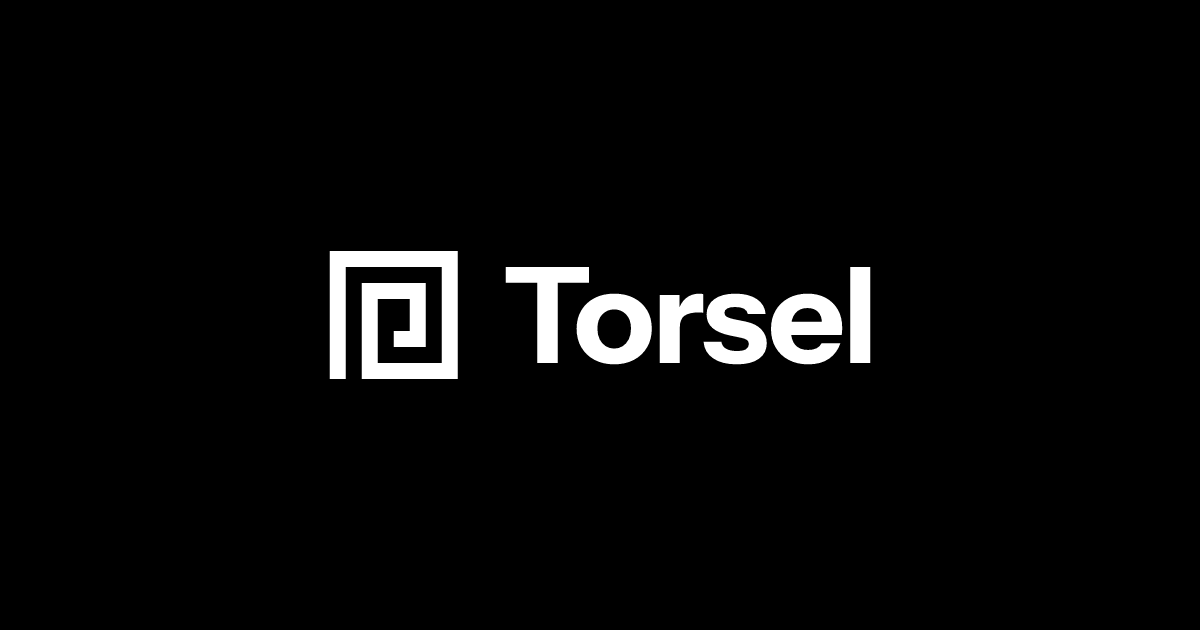
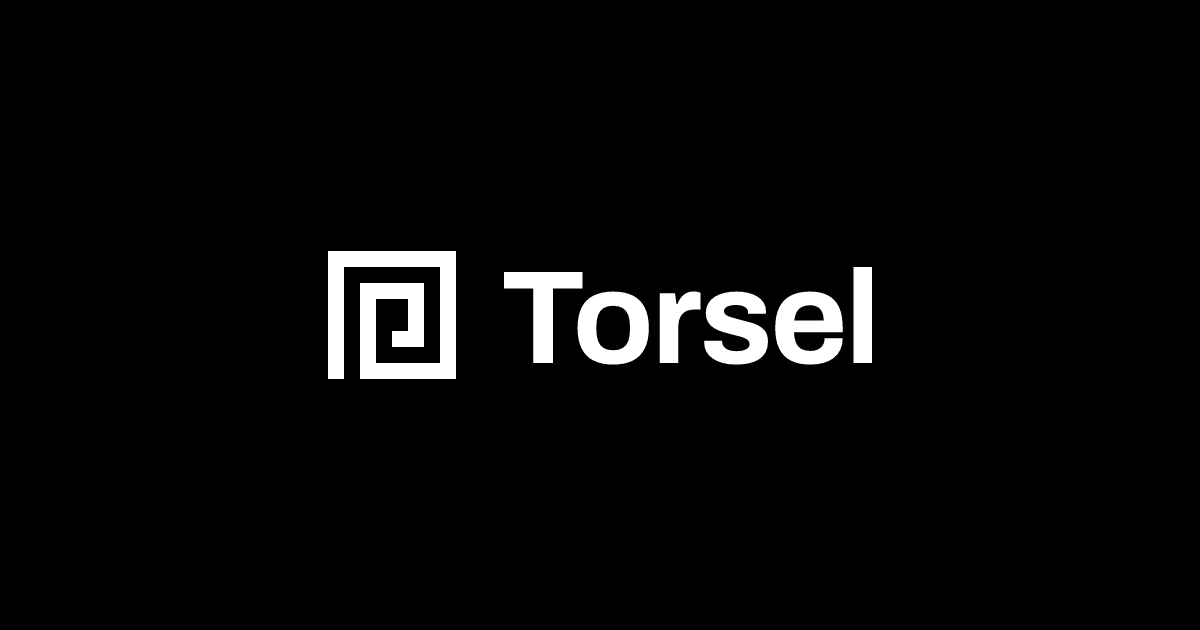
feat(app): draw the wordmark in archivo until the type is confirmed

diff --git a/src/lib/ui/Logo.svelte b/src/lib/ui/Logo.svelte
@@ -4,7 +4,7 @@
 </script>
 
 <svg
-	viewBox="0 0 {wordmark ? 67.55 : 16} 16"
+	viewBox="0 0 {wordmark ? 68.01 : 16} 16"
 	role="img"
 	aria-label="Torsel"
 	fill="currentColor"
@@ -15,7 +15,7 @@
 	{#if wordmark}
 		<path
 			transform="translate(22)"
-			d="M3.92 14V3.97H0V2H10.4V3.97H6.48V14ZM13.55 14.17Q12.15 14.17 11.09 13.61Q10.03 13.05 9.44 12.04Q8.85 11.03 8.85 9.72Q8.85 8.4 9.44 7.42Q10.03 6.43 11.09 5.88Q12.15 5.33 13.55 5.33Q14.97 5.33 16.02 5.88Q17.08 6.43 17.67 7.42Q18.25 8.4 18.25 9.72Q18.25 11.03 17.66 12.04Q17.07 13.05 16.01 13.61Q14.95 14.17 13.55 14.17ZM13.55 12.2Q14.13 12.2 14.61 11.9Q15.08 11.6 15.37 11.04Q15.65 10.48 15.65 9.7Q15.65 8.55 15.04 7.93Q14.43 7.3 13.55 7.3Q12.67 7.3 12.06 7.93Q11.45 8.57 11.45 9.7Q11.45 10.48 11.73 11.04Q12.02 11.6 12.49 11.9Q12.97 12.2 13.55 12.2ZM19.25 14V5.5H21.7V7.5H21.75V14ZM21.75 9.57 21.53 7.55Q21.83 6.47 22.52 5.9Q23.2 5.33 24.22 5.33Q24.53 5.33 24.68 5.4V7.73Q24.6 7.7 24.45 7.69Q24.3 7.68 24.08 7.68Q22.88 7.68 22.32 8.11Q21.75 8.53 21.75 9.57ZM28.88 14.17Q27.02 14.17 25.92 13.42Q24.82 12.67 24.72 11.35H26.95Q27.03 11.92 27.52 12.21Q28.02 12.5 28.88 12.5Q29.67 12.5 30.02 12.28Q30.38 12.05 30.38 11.63Q30.38 11.32 30.17 11.14Q29.97 10.97 29.42 10.85L28.05 10.57Q26.53 10.25 25.82 9.61Q25.1 8.97 25.1 7.95Q25.1 6.72 26.05 6.03Q27 5.33 28.7 5.33Q30.38 5.33 31.38 6.01Q32.38 6.68 32.48 7.88H30.25Q30.18 7.45 29.78 7.22Q29.38 7 28.65 7Q27.98 7 27.66 7.19Q27.33 7.38 27.33 7.73Q27.33 8.03 27.6 8.21Q27.87 8.38 28.48 8.52L30.02 8.83Q31.3 9.1 31.96 9.82Q32.62 10.55 32.62 11.53Q32.62 12.78 31.64 13.47Q30.67 14.17 28.88 14.17ZM37.82 14.17Q36.4 14.17 35.35 13.61Q34.3 13.05 33.72 12.05Q33.15 11.05 33.15 9.75Q33.15 8.43 33.72 7.44Q34.3 6.45 35.33 5.89Q36.37 5.33 37.73 5.33Q39.05 5.33 40.02 5.87Q40.98 6.4 41.52 7.35Q42.05 8.3 42.05 9.58Q42.05 9.85 42.03 10.07Q42.02 10.3 41.98 10.5H34.62V8.85H39.97L39.53 9.15Q39.53 8.12 39.04 7.62Q38.55 7.13 37.7 7.13Q36.72 7.13 36.17 7.8Q35.63 8.47 35.63 9.8Q35.63 11.1 36.17 11.73Q36.72 12.37 37.8 12.37Q38.4 12.37 38.83 12.17Q39.27 11.97 39.48 11.52H41.83Q41.42 12.75 40.41 13.46Q39.4 14.17 37.82 14.17ZM43.05 14V2H45.55V14Z"
+			d="M3.65 14V4.69H0V2.61H9.81V4.69H6.14V14ZM13.64 14.2Q12.22 14.2 11.22 13.71Q10.22 13.22 9.71 12.2Q9.2 11.18 9.2 9.63Q9.2 8.06 9.71 7.05Q10.22 6.05 11.22 5.56Q12.22 5.07 13.64 5.07Q15.1 5.07 16.09 5.56Q17.08 6.05 17.59 7.05Q18.11 8.06 18.11 9.63Q18.11 11.18 17.59 12.2Q17.08 13.22 16.09 13.71Q15.1 14.2 13.64 14.2ZM13.64 12.41Q14.41 12.41 14.86 12.12Q15.32 11.84 15.54 11.26Q15.75 10.68 15.75 9.83V9.44Q15.75 8.59 15.54 8.01Q15.32 7.43 14.86 7.14Q14.41 6.85 13.64 6.85Q12.9 6.85 12.44 7.14Q11.98 7.43 11.77 8.01Q11.55 8.59 11.55 9.44V9.83Q11.55 10.68 11.77 11.26Q11.98 11.84 12.44 12.12Q12.9 12.41 13.64 12.41ZM19.47 14V5.27H21.38L21.56 6.63H21.68Q21.84 6.2 22.11 5.84Q22.37 5.49 22.77 5.27Q23.17 5.05 23.7 5.05Q23.98 5.05 24.22 5.11Q24.45 5.17 24.56 5.22V7.31H23.85Q23.34 7.31 22.95 7.45Q22.56 7.59 22.29 7.89Q22.02 8.19 21.9 8.62Q21.78 9.05 21.78 9.63V14ZM28.98 14.2Q28.07 14.2 27.34 14Q26.61 13.8 26.09 13.44Q25.58 13.09 25.3 12.59Q25.03 12.09 25.03 11.46Q25.03 11.39 25.03 11.33Q25.03 11.26 25.05 11.23H27.27Q27.27 11.26 27.27 11.29Q27.27 11.33 27.27 11.36Q27.29 11.78 27.54 12.03Q27.78 12.29 28.19 12.41Q28.6 12.52 29.05 12.52Q29.44 12.52 29.82 12.45Q30.19 12.37 30.45 12.17Q30.71 11.98 30.71 11.66Q30.71 11.26 30.38 11.05Q30.06 10.83 29.54 10.7Q29.01 10.56 28.4 10.4Q27.83 10.27 27.27 10.09Q26.71 9.92 26.25 9.63Q25.79 9.35 25.51 8.9Q25.23 8.44 25.23 7.74Q25.23 7.06 25.53 6.56Q25.83 6.05 26.35 5.72Q26.87 5.39 27.58 5.23Q28.28 5.07 29.1 5.07Q29.86 5.07 30.52 5.23Q31.19 5.39 31.68 5.69Q32.18 6 32.46 6.46Q32.75 6.91 32.75 7.48Q32.75 7.59 32.75 7.69Q32.75 7.79 32.73 7.83H30.52V7.69Q30.52 7.39 30.34 7.19Q30.16 6.98 29.82 6.86Q29.48 6.75 29 6.75Q28.66 6.75 28.39 6.8Q28.12 6.85 27.92 6.95Q27.72 7.05 27.61 7.19Q27.5 7.33 27.5 7.53Q27.5 7.81 27.74 7.98Q27.98 8.16 28.38 8.27Q28.78 8.39 29.26 8.52Q29.86 8.69 30.51 8.85Q31.17 9 31.73 9.27Q32.3 9.54 32.65 10.02Q33 10.51 33 11.34Q33 12.14 32.69 12.69Q32.38 13.24 31.83 13.57Q31.29 13.9 30.56 14.05Q29.83 14.2 28.98 14.2ZM38.31 14.2Q36.86 14.2 35.88 13.71Q34.9 13.22 34.41 12.21Q33.91 11.2 33.91 9.63Q33.91 8.06 34.41 7.05Q34.9 6.05 35.88 5.56Q36.85 5.07 38.26 5.07Q39.59 5.07 40.5 5.54Q41.41 6.02 41.88 7Q42.34 7.99 42.34 9.55V10.15H36.25Q36.28 10.91 36.49 11.44Q36.7 11.98 37.14 12.23Q37.58 12.49 38.31 12.49Q38.71 12.49 39.03 12.39Q39.35 12.29 39.59 12.09Q39.82 11.89 39.95 11.59Q40.08 11.29 40.08 10.91H42.34Q42.34 11.74 42.04 12.36Q41.74 12.97 41.21 13.38Q40.68 13.78 39.94 13.99Q39.2 14.2 38.31 14.2ZM36.28 8.69H39.97Q39.97 8.19 39.84 7.83Q39.72 7.46 39.5 7.23Q39.29 7 38.98 6.89Q38.67 6.78 38.29 6.78Q37.66 6.78 37.24 6.99Q36.81 7.2 36.59 7.62Q36.37 8.04 36.28 8.69ZM43.7 14V2H46.01V14Z"
 		/>
 	{/if}
 </svg>
